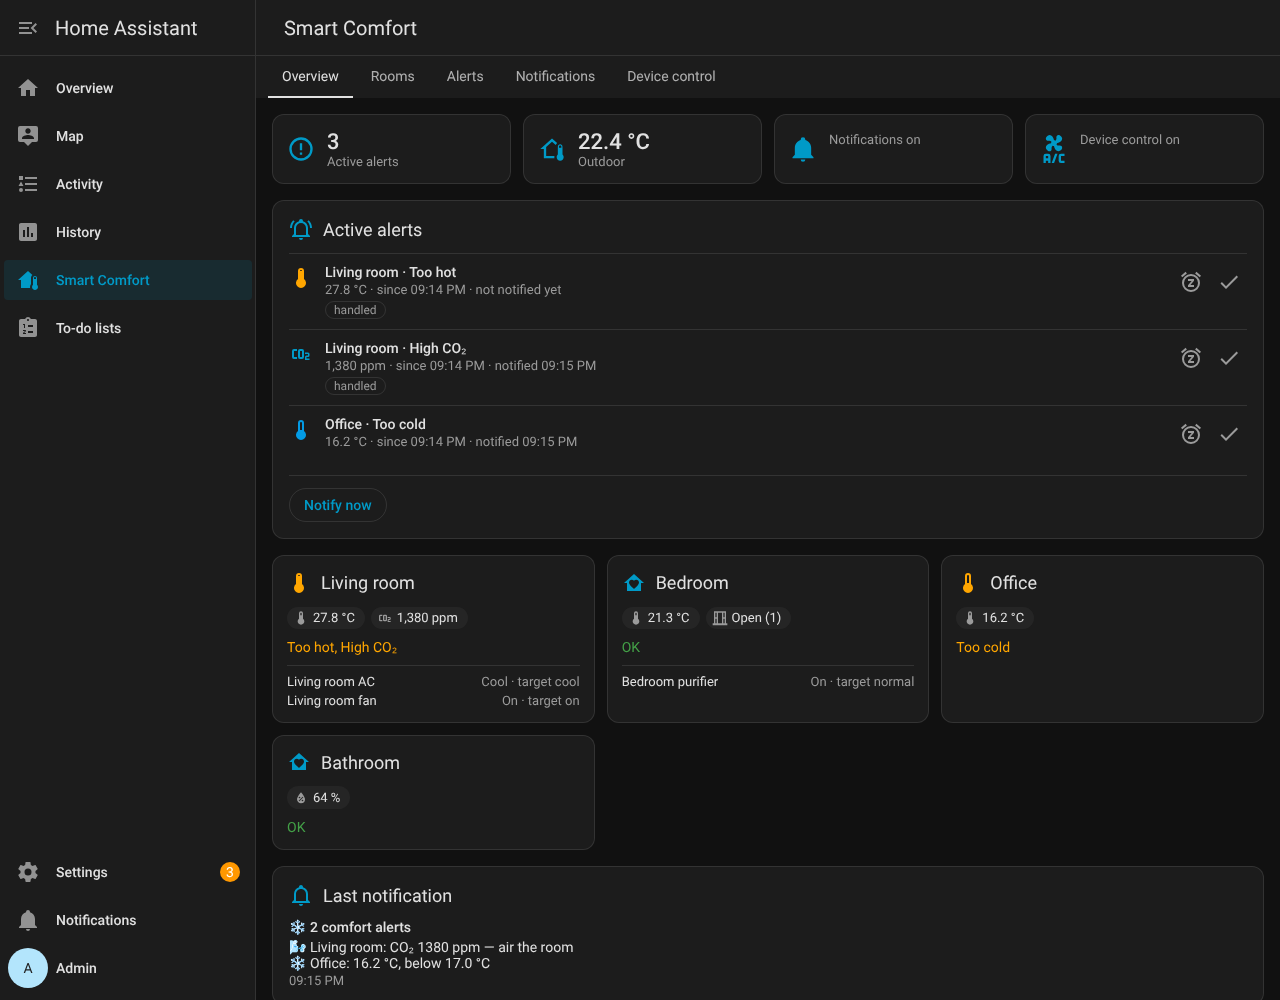
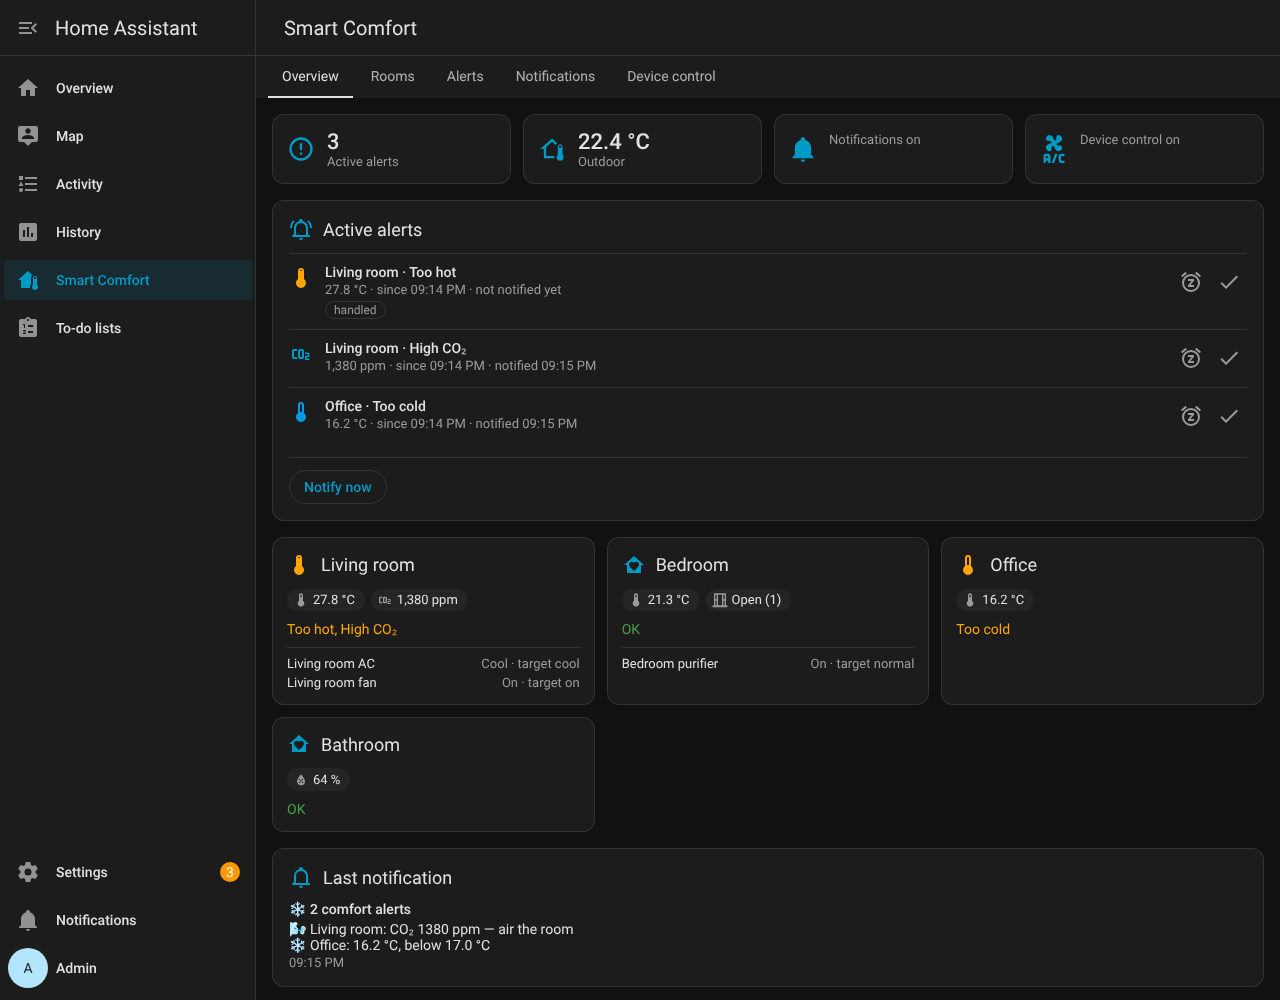
feat: configuration panel in the sidebar + release 0.2.0
Admin panel (plain web component, ha-form) with an overview of the
alerts, rooms and devices, and editing of rooms (sensors, openings,
air conditioner, fans and purifiers with their own settings, alert
overrides), alerts, notifications and device control. WebSocket
commands smart_comfort/config, config/save and subscribe.

Also: device changes while Home Assistant starts are not manual
changes; the handled flag is only set on alerts a device hides.
Biome job for the panel JS.

Claude-Session: https://claude.ai/code/session_01F4sAn1BFxZRAK7j9kpbeFV

diff --git a/README.md b/README.md
@@ -31,7 +31,7 @@ Comfort automations built with a cooldown keep notifying every couple of hours a
   - commands are sent only when the target changes and the device isn't already in that state; a device changed **by hand** is left alone for an hour (configurable)
   - a room whose air conditioner or fan Smart Comfort has turned on gets no "too hot" alert (a device turned on by hand doesn't count)
 - **No re-notification after a restart**: episodes, snoozes and device targets are stored; nothing is sent during the startup grace period
-- **YAML or UI**: configure everything in YAML (imported at startup) or in the integration options — rooms, alerts, control
+- **YAML or UI**: configure everything in YAML (imported at startup), in the **Smart Comfort panel** of the sidebar, or in the integration options — rooms, alerts, control
 - Sensors for the active alerts and the comfort of each room, switches to pause the notifications or the device control, buttons, actions and events
 - English, French, German and Spanish
 
@@ -67,9 +67,32 @@ Copy `custom_components/smart_comfort/` to `/config/custom_components/smart_comf
 Both ways can be used together:
 
 - **YAML**: add a `smart_comfort:` section (below). At startup it creates the integration, or replaces its options **if the YAML changed** since the last import. While the YAML stays the same, changes made in the UI are kept
-- **UI**: [![Add integration](https://my.home-assistant.io/badges/config_flow_start.svg)](https://my.home-assistant.io/redirect/config_flow_start/?domain=smart_comfort) — **Settings → Devices & services → Add integration → Smart Comfort**, then **Configure** for the notifications, the alerts, the device control and the rooms
+- **UI**: [![Add integration](https://my.home-assistant.io/badges/config_flow_start.svg)](https://my.home-assistant.io/redirect/config_flow_start/?domain=smart_comfort) — **Settings → Devices & services → Add integration → Smart Comfort**, then the **Smart Comfort** panel in the sidebar (below), or **Configure** for the same settings as forms
 
-Per-device settings (a preset for one fan only) are YAML only; editing a room in the UI keeps them.
+### Configuration panel
+
+Once set up, Smart Comfort adds a **Smart Comfort** page to the sidebar, for administrators:
+
+- **Overview**: the active alerts with their state (notified, snoozed, acknowledged, handled by a running device) and **Snooze** / **Got it** buttons, the readings and devices of each room with their targets and manual overrides, the last notification, and switches for the notifications and the device control
+- **Rooms**: add, remove and reorder rooms; their sensors and openings; their air conditioner, fans and purifiers, each with its own settings (presets offered from the device, mode select and its options); and alert overrides for the room
+- **Alerts**, **Notifications**, **Device control**: the global settings, with their defaults
+
+Changes are checked and saved with **Save** (or dropped with **Discard**); the integration reloads with them, and the page keeps following its status. Only the settings that differ from the defaults are stored. When the configuration comes from YAML, the page says so: what is saved there stays until the YAML changes.
+
+Each tab has its own address, e.g. `/smart-comfort/rooms`.
+
+![Overview of the Smart Comfort panel](screenshots/panel-overview.png)
+
+<details>
+<summary>More screenshots</summary>
+
+![A room in the Smart Comfort panel](screenshots/panel-room.png)
+
+![Alert settings in the Smart Comfort panel](screenshots/panel-alerts.png)
+
+![Overview in dark mode](screenshots/panel-overview-dark.png)
+
+</details>
 
 ### Example
 

diff --git a/custom_components/smart_comfort/AGENT.md b/custom_components/smart_comfort/AGENT.md
@@ -19,6 +19,10 @@ custom_components/smart_comfort/
 ├── sensor.py        # alerts, room (enum per room), last_notification
 ├── switch.py        # notifications, control (restored)
 ├── button.py        # notify_now, unsnooze
+├── status.py        # episode_info / room_info / status: shared by the sensors and the panel
+├── websocket.py     # smart_comfort/config, smart_comfort/config/save (OPTIONS + unique room names), smart_comfort/subscribe (SIGNAL_UPDATE)
+├── panel.py         # Static path /smart_comfort_static (once per run) + custom panel "smart-comfort" (admin), removed with the entry
+├── frontend/smart-comfort-panel.js  # Plain web component (no build): tabs overview/rooms/alerts/notifications/control, ha-form
 ├── entity.py / icons.json / services.yaml / translations/{en,fr,de,es}.json / brand/
 ```
 
@@ -32,6 +36,13 @@ custom_components/smart_comfort/
 - Control: a target per device; commands only on a target change and when the device doesn't already satisfy it. Hysteresis band keeps the previous target. Climate in a mode other than cool/off is left alone, except by `off_open` (opening open for `off_on_open`). A purifier without closed preset/mode goes back to its pre-boost state (`before_boost`). A failed command forgets the target, retried after `COMMAND_RETRY` min doubled at each failure in a row (max `COMMAND_RETRY_MAX`, reset when all commands of the device succeed; another target is not held back); a failed pre-boost restore puts `before_boost` back. keep_on respects manual overrides. Manual change = device state/attribute change whose context isn't ours, outside 90 s after our last command → override `manual_override` min; when it ends the target is forgotten and applied again.
 - State (episodes, snoozes, last notified keys, targets, overrides, pre-boost states, last notification, switches) in `Store` `smart_comfort`, and in `hass.data[DOMAIN]["state"]` across entry reloads; `async_stop` waits for the evaluation in progress first. `async_remove_entry` deletes both.
 - Notification texts: translations `common.*` with `str.format`; a broken template falls back to English (message.FALLBACK).
+
+## Panel
+- Registered at entry setup when `frontend` is loaded, kept across entry reloads (saving reloads the entry; an open panel must not vanish), removed in `async_remove_entry`.
+- Labels come from the translations through `frontend/get_translations` (category `options`: the options flow steps general / alert / control (+ sections) / room (+ section overrides); category `selector`: kinds, severities, aggregates). Panel-only strings are in `STRINGS` of the JS (en/fr/de/es).
+- ha-form is lazy-loaded by Home Assistant: `loadHaForm()` loads it through the entities card editor.
+- The draft stores only what differs from the defaults (`diff`, `prune`); times "HH:MM" and "HH:MM:SS" compare equal. Device items with no own setting are stored as a bare entity id. Unknown keys of a room (room-level `control`, `id`) are kept.
+- The status subscription listens to `SIGNAL_UPDATE`, sent by `_update_listeners` and by setup/unload, so it survives reloads.
 
 ## Release
 Bump `version` in manifest.json and add its CHANGELOG.md section; pushing to main publishes `vX.Y.Z` with `smart_comfort.zip` when that tag doesn't exist yet.

diff --git a/CHANGELOG.md b/CHANGELOG.md
@@ -1,5 +1,16 @@
 # Changelog
 
+## 0.2.0
+
+### What's new
+- **Configuration panel** in the sidebar (administrators): overview of the active alerts, rooms and devices with snooze / acknowledge buttons and the notification and control switches; editing of the rooms (sensors, openings, air conditioner, fans and purifiers with their own settings, alert overrides), the alerts, the notifications and the device control, saved in one go. Each tab has its own address (`/smart-comfort/rooms`…).
+- WebSocket commands `smart_comfort/config`, `smart_comfort/config/save` and `smart_comfort/subscribe`, used by the panel.
+
+### Fixes
+- Air conditioners are now switched to cooling with `climate.set_hvac_mode` followed by `climate.set_temperature`: some integrations (`generic_thermostat`…) ignored the mode given with the temperature and never started cooling.
+- Device changes while Home Assistant starts (entities settling on their first state) no longer count as manual changes pausing their control.
+- The `handled` flag of an alert in the attributes is now only set on the alerts a running device actually hides ("too hot"), not on every alert of its room.
+
 ## 0.1.4
 
 ### Fixes
